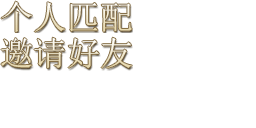
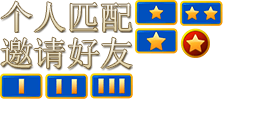
客户端支持荣誉值和段位

Changed region(s): [[0.5, 0.0, 0.875, 0.4688], [0.0, 0.5625, 0.5312, 0.7812]]

diff --git a/wx/js/Net/ProtoHelper.js b/wx/js/Net/ProtoHelper.js
@@ -60,6 +60,7 @@ export class ProtoCreator {
         ProtoCreator._TYPE2ID.set(Protos.CS2GC_EnterBattle, 5306);
         ProtoCreator._TYPE2ID.set(Protos.CS2GC_BattleEnd, 5307);
         ProtoCreator._TYPE2ID.set(Protos.CS2GC_BSLose, 5308);
+        ProtoCreator._TYPE2ID.set(Protos.CS2DB_UpdateRank, 5400);
         ProtoCreator._TYPE2ID.set(Protos.DB2LS_QueryAccountRet, 8000);
         ProtoCreator._TYPE2ID.set(Protos.DB2LS_QueryLoginRet, 8001);
         ProtoCreator._TYPE2ID.set(Protos.DB2LS_ExecRet, 8002);
@@ -118,6 +119,7 @@ export class ProtoCreator {
         ProtoCreator._ID2TYPE.set(5306, Protos.CS2GC_EnterBattle);
         ProtoCreator._ID2TYPE.set(5307, Protos.CS2GC_BattleEnd);
         ProtoCreator._ID2TYPE.set(5308, Protos.CS2GC_BSLose);
+        ProtoCreator._ID2TYPE.set(5400, Protos.CS2DB_UpdateRank);
         ProtoCreator._ID2TYPE.set(8000, Protos.DB2LS_QueryAccountRet);
         ProtoCreator._ID2TYPE.set(8001, Protos.DB2LS_QueryLoginRet);
         ProtoCreator._ID2TYPE.set(8002, Protos.DB2LS_ExecRet);
@@ -419,6 +421,11 @@ export class ProtoCreator {
         msg.opts = new Protos.MsgOpts();
         return msg;
     }
+    static Q_CS2DB_UpdateRank() {
+        let msg = new Protos.CS2DB_UpdateRank();
+        msg.opts = new Protos.MsgOpts();
+        return msg;
+    }
     static Q_DB2LS_QueryAccountRet() {
         let msg = new Protos.DB2LS_QueryAccountRet();
         msg.opts = new Protos.MsgOpts();
@@ -434,8 +441,57 @@ export class ProtoCreator {
         msg.opts = new Protos.MsgOpts();
         return msg;
     }
-    static R_GC2LS_AskRegister(pid) {
-        let msg = new Protos.LS2GC_AskRegRet();
+    static R_GC2LS_AskLogin(pid) {
+        let msg = new Protos.LS2GC_AskLoginRet();
+        msg.opts = new Protos.MsgOpts();
+        msg.opts.flag |= 1 << Protos.MsgOpts.Flag.RESP;
+        msg.opts.rpid = pid;
+        return msg;
+    }
+    static R_GS2CS_GCAskLogin(pid) {
+        let msg = new Protos.CS2GS_GCLoginRet();
+        msg.opts = new Protos.MsgOpts();
+        msg.opts.flag |= 1 << Protos.MsgOpts.Flag.RESP;
+        msg.opts.rpid = pid;
+        return msg;
+    }
+    static R_LS2CS_GCLogin(pid) {
+        let msg = new Protos.CS2LS_GCLoginRet();
+        msg.opts = new Protos.MsgOpts();
+        msg.opts.flag |= 1 << Protos.MsgOpts.Flag.RESP;
+        msg.opts.rpid = pid;
+        return msg;
+    }
+    static R_LS2DB_QueryAccount(pid) {
+        let msg = new Protos.DB2LS_QueryAccountRet();
+        msg.opts = new Protos.MsgOpts();
+        msg.opts.flag |= 1 << Protos.MsgOpts.Flag.RESP;
+        msg.opts.rpid = pid;
+        return msg;
+    }
+    static R_GC2LS_AskWXLogin(pid) {
+        let msg = new Protos.LS2GC_AskLoginRet();
+        msg.opts = new Protos.MsgOpts();
+        msg.opts.flag |= 1 << Protos.MsgOpts.Flag.RESP;
+        msg.opts.rpid = pid;
+        return msg;
+    }
+    static R_GC2BS_RequestFrameActions(pid) {
+        let msg = new Protos.BS2GC_RequestFrameActionsRet();
+        msg.opts = new Protos.MsgOpts();
+        msg.opts.flag |= 1 << Protos.MsgOpts.Flag.RESP;
+        msg.opts.rpid = pid;
+        return msg;
+    }
+    static R_GC2GS_AskLogin(pid) {
+        let msg = new Protos.GS2GC_LoginRet();
+        msg.opts = new Protos.MsgOpts();
+        msg.opts.flag |= 1 << Protos.MsgOpts.Flag.RESP;
+        msg.opts.rpid = pid;
+        return msg;
+    }
+    static R_CS2BS_BattleInfo(pid) {
+        let msg = new Protos.BS2CS_BattleInfoRet();
         msg.opts = new Protos.MsgOpts();
         msg.opts.flag |= 1 << Protos.MsgOpts.Flag.RESP;
         msg.opts.rpid = pid;
@@ -455,22 +511,15 @@ export class ProtoCreator {
         msg.opts.rpid = pid;
         return msg;
     }
-    static R_LS2DB_QueryLogin(pid) {
-        let msg = new Protos.DB2LS_QueryLoginRet();
-        msg.opts = new Protos.MsgOpts();
-        msg.opts.flag |= 1 << Protos.MsgOpts.Flag.RESP;
-        msg.opts.rpid = pid;
-        return msg;
-    }
-    static R_CS2BS_BattleInfo(pid) {
-        let msg = new Protos.BS2CS_BattleInfoRet();
-        msg.opts = new Protos.MsgOpts();
-        msg.opts.flag |= 1 << Protos.MsgOpts.Flag.RESP;
-        msg.opts.rpid = pid;
-        return msg;
-    }
     static R_GC2LS_AskSmartLogin(pid) {
         let msg = new Protos.LS2GC_AskLoginRet();
+        msg.opts = new Protos.MsgOpts();
+        msg.opts.flag |= 1 << Protos.MsgOpts.Flag.RESP;
+        msg.opts.rpid = pid;
+        return msg;
+    }
+    static R_GC2LS_AskRegister(pid) {
+        let msg = new Protos.LS2GC_AskRegRet();
         msg.opts = new Protos.MsgOpts();
         msg.opts.flag |= 1 << Protos.MsgOpts.Flag.RESP;
         msg.opts.rpid = pid;
@@ -483,36 +532,8 @@ export class ProtoCreator {
         msg.opts.rpid = pid;
         return msg;
     }
-    static R_GC2BS_RequestFrameActions(pid) {
-        let msg = new Protos.BS2GC_RequestFrameActionsRet();
-        msg.opts = new Protos.MsgOpts();
-        msg.opts.flag |= 1 << Protos.MsgOpts.Flag.RESP;
-        msg.opts.rpid = pid;
-        return msg;
-    }
-    static R_LS2DB_QueryAccount(pid) {
-        let msg = new Protos.DB2LS_QueryAccountRet();
-        msg.opts = new Protos.MsgOpts();
-        msg.opts.flag |= 1 << Protos.MsgOpts.Flag.RESP;
-        msg.opts.rpid = pid;
-        return msg;
-    }
-    static R_LS2DB_Exec(pid) {
-        let msg = new Protos.DB2LS_ExecRet();
-        msg.opts = new Protos.MsgOpts();
-        msg.opts.flag |= 1 << Protos.MsgOpts.Flag.RESP;
-        msg.opts.rpid = pid;
-        return msg;
-    }
     static R_G_AskPing(pid) {
         let msg = new Protos.G_AskPingRet();
-        msg.opts = new Protos.MsgOpts();
-        msg.opts.flag |= 1 << Protos.MsgOpts.Flag.RESP;
-        msg.opts.rpid = pid;
-        return msg;
-    }
-    static R_GC2GS_AskLogin(pid) {
-        let msg = new Protos.GS2GC_LoginRet();
         msg.opts = new Protos.MsgOpts();
         msg.opts.flag |= 1 << Protos.MsgOpts.Flag.RESP;
         msg.opts.rpid = pid;
@@ -525,29 +546,15 @@ export class ProtoCreator {
         msg.opts.rpid = pid;
         return msg;
     }
-    static R_GS2CS_GCAskLogin(pid) {
-        let msg = new Protos.CS2GS_GCLoginRet();
+    static R_LS2DB_Exec(pid) {
+        let msg = new Protos.DB2LS_ExecRet();
         msg.opts = new Protos.MsgOpts();
         msg.opts.flag |= 1 << Protos.MsgOpts.Flag.RESP;
         msg.opts.rpid = pid;
         return msg;
     }
-    static R_GC2LS_AskLogin(pid) {
-        let msg = new Protos.LS2GC_AskLoginRet();
-        msg.opts = new Protos.MsgOpts();
-        msg.opts.flag |= 1 << Protos.MsgOpts.Flag.RESP;
-        msg.opts.rpid = pid;
-        return msg;
-    }
-    static R_GC2LS_AskWXLogin(pid) {
-        let msg = new Protos.LS2GC_AskLoginRet();
-        msg.opts = new Protos.MsgOpts();
-        msg.opts.flag |= 1 << Protos.MsgOpts.Flag.RESP;
-        msg.opts.rpid = pid;
-        return msg;
-    }
-    static R_LS2CS_GCLogin(pid) {
-        let msg = new Protos.CS2LS_GCLoginRet();
+    static R_LS2DB_QueryLogin(pid) {
+        let msg = new Protos.DB2LS_QueryLoginRet();
         msg.opts = new Protos.MsgOpts();
         msg.opts.flag |= 1 << Protos.MsgOpts.Flag.RESP;
         msg.opts.rpid = pid;
@@ -773,6 +780,10 @@ export class ProtoCreator {
             }
             case 5308: {
                 let msg = Protos.CS2GC_BSLose.decode(data, size);
+                return msg;
+            }
+            case 5400: {
+                let msg = Protos.CS2DB_UpdateRank.decode(data, size);
                 return msg;
             }
             case 8000: {
@@ -1010,6 +1021,10 @@ export class ProtoCreator {
         let msg = Protos.CS2GC_BSLose.decode(data, size);
         return msg;
     }
+    static D_CS2DB_UpdateRank(data, size) {
+        let msg = Protos.CS2DB_UpdateRank.decode(data, size);
+        return msg;
+    }
     static D_DB2LS_QueryAccountRet(data, size) {
         let msg = Protos.DB2LS_QueryAccountRet.decode(data, size);
         return msg;
@@ -1189,6 +1204,9 @@ export class ProtoCreator {
             case 5308: {
                 return new Protos.CS2GC_BSLose();
             }
+            case 5400: {
+                return new Protos.CS2DB_UpdateRank();
+            }
             case 8000: {
                 return new Protos.DB2LS_QueryAccountRet();
             }
@@ -1367,6 +1385,9 @@ export class ProtoCreator {
                 return message.opts;
             }
             case 5308: {
+                return message.opts;
+            }
+            case 5400: {
                 return message.opts;
             }
             case 8000: {

diff --git a/Client/bin/js/UI/UIMain.js b/Client/bin/js/UI/UIMain.js
@@ -2,7 +2,6 @@ define(["require", "exports", "../Global", "../Libs/protos", "./UIAlert"], funct
     "use strict";
     Object.defineProperty(exports, "__esModule", { value: true });
     class UIMain {
-        get root() { return this._root; }
         constructor() {
             fairygui.UIPackage.addPackage("res/ui/main");
             this._root = fairygui.UIPackage.createObject("main", "Main").asCom;
@@ -15,6 +14,7 @@ define(["require", "exports", "../Global", "../Libs/protos", "./UIAlert"], funct
             this._matchBtn2.onClick(this, this.OnMatchBtn2Click);
             this._matchBtn4.onClick(this, this.OnMatchBtn4Click);
         }
+        get root() { return this._root; }
         Dispose() {
             this._root.dispose();
         }
@@ -26,6 +26,9 @@ define(["require", "exports", "../Global", "../Libs/protos", "./UIAlert"], funct
             if (userInfo != null) {
                 this._root.getChild("image").asCom.getChild("loader").asCom.getChild("icon").asLoader.url = userInfo.avatar;
                 this._root.getChild("nickname").asTextField.text = userInfo.nickname;
+                const r = userInfo.rank - userInfo.rank % UIMain.RANK_STEP;
+                this._root.getChild("rank_icon").asLoader.url = fairygui.UIPackage.getItemURL("main", "r" + r);
+                this._root.getChild("rank").asTextField.text = "" + userInfo.rank;
             }
         }
         Exit() {
@@ -56,6 +59,7 @@ define(["require", "exports", "../Global", "../Libs/protos", "./UIAlert"], funct
             UIAlert_1.UIAlert.Show(message, callback);
         }
     }
+    UIMain.RANK_STEP = 400;
     exports.UIMain = UIMain;
 });
 //# sourceMappingURL=UIMain.js.map

diff --git a/wx/js/UI/UIMain.js b/wx/js/UI/UIMain.js
@@ -2,7 +2,6 @@ import { Global } from "../Global";
 import { Protos } from "../Libs/protos";
 import { UIAlert } from "./UIAlert";
 export class UIMain {
-    get root() { return this._root; }
     constructor() {
         fairygui.UIPackage.addPackage("res/ui/main");
         this._root = fairygui.UIPackage.createObject("main", "Main").asCom;
@@ -15,6 +14,7 @@ export class UIMain {
         this._matchBtn2.onClick(this, this.OnMatchBtn2Click);
         this._matchBtn4.onClick(this, this.OnMatchBtn4Click);
     }
+    get root() { return this._root; }
     Dispose() {
         this._root.dispose();
     }
@@ -26,6 +26,9 @@ export class UIMain {
         if (userInfo != null) {
             this._root.getChild("image").asCom.getChild("loader").asCom.getChild("icon").asLoader.url = userInfo.avatar;
             this._root.getChild("nickname").asTextField.text = userInfo.nickname;
+            const r = userInfo.rank - userInfo.rank % UIMain.RANK_STEP;
+            this._root.getChild("rank_icon").asLoader.url = fairygui.UIPackage.getItemURL("main", "r" + r);
+            this._root.getChild("rank").asTextField.text = "" + userInfo.rank;
         }
     }
     Exit() {
@@ -56,3 +59,4 @@ export class UIMain {
         UIAlert.Show(message, callback);
     }
 }
+UIMain.RANK_STEP = 400;

diff --git a/Client/src/UI/UIMain.ts b/Client/src/UI/UIMain.ts
@@ -5,6 +5,7 @@ import { UIAlert } from "./UIAlert";
 
 export class UIMain implements IUIModule {
 	private readonly _root: fairygui.GComponent;
+	private static readonly RANK_STEP = 400;
 
 	public get root(): fairygui.GComponent { return this._root; }
 
@@ -39,6 +40,9 @@ export class UIMain implements IUIModule {
 		if (userInfo != null) {
 			this._root.getChild("image").asCom.getChild("loader").asCom.getChild("icon").asLoader.url = userInfo.avatar;
 			this._root.getChild("nickname").asTextField.text = userInfo.nickname;
+			const r = userInfo.rank - userInfo.rank % UIMain.RANK_STEP;
+			this._root.getChild("rank_icon").asLoader.url = fairygui.UIPackage.getItemURL("main", "r" + r);
+			this._root.getChild("rank").asTextField.text = "" + userInfo.rank;
 		}
 	}
 

diff --git a/wx/js/Model/BattleManager.js b/wx/js/Model/BattleManager.js
@@ -135,7 +135,7 @@ export class BattleManager {
     HandleBattleEnd(message) {
         this.QueueMessage(message, msg => {
             const battleEnd = msg;
-            UIEvent.EndBattle(battleEnd.result, battleEnd.honour, () => {
+            UIEvent.EndBattle(battleEnd.result, battleEnd.rank, () => {
                 this.Destroy();
                 Global.sceneManager.ChangeState(SceneManager.State.Main);
             });

diff --git a/Server/CentralServer/Biz/GSBiz.cs b/Server/CentralServer/Biz/GSBiz.cs
@@ -63,7 +63,7 @@ namespace CentralServer.Biz
 			gsInfo.port = GSInfoRecv.Port;
 			gsInfo.password = GSInfoRecv.Password;
 			gsInfo.state = ( GSInfo.State )GSInfoRecv.State;
-			Logger.Log( $"report from GS:{gsInfo}" );
+			//Logger.Log( $"report from GS:{gsInfo}" );
 
 			//转发到LS
 			Protos.CS2LS_GSInfo nGSInfo = ProtoCreator.Q_CS2LS_GSInfo();
@@ -103,8 +103,7 @@ namespace CentralServer.Biz
 					Nickname = user.nickname,
 					Avatar = user.avatar,
 					Gender = user.gender,
-					//todo
-					Rank = 0
+					Rank = user.rank
 				};
 				//检查玩家是否在战场
 				if ( user.isInBattle )

diff --git a/Server/CentralServer/Biz/BSBiz.cs b/Server/CentralServer/Biz/BSBiz.cs
@@ -195,7 +195,7 @@ namespace CentralServer.Biz
 				return 16;
 			if ( rank >= 2400 )
 				return 32;
-			if ( rank >= 2100 )
+			if ( rank >= 2000 )
 				return 48;
 			return 64;
 		}
